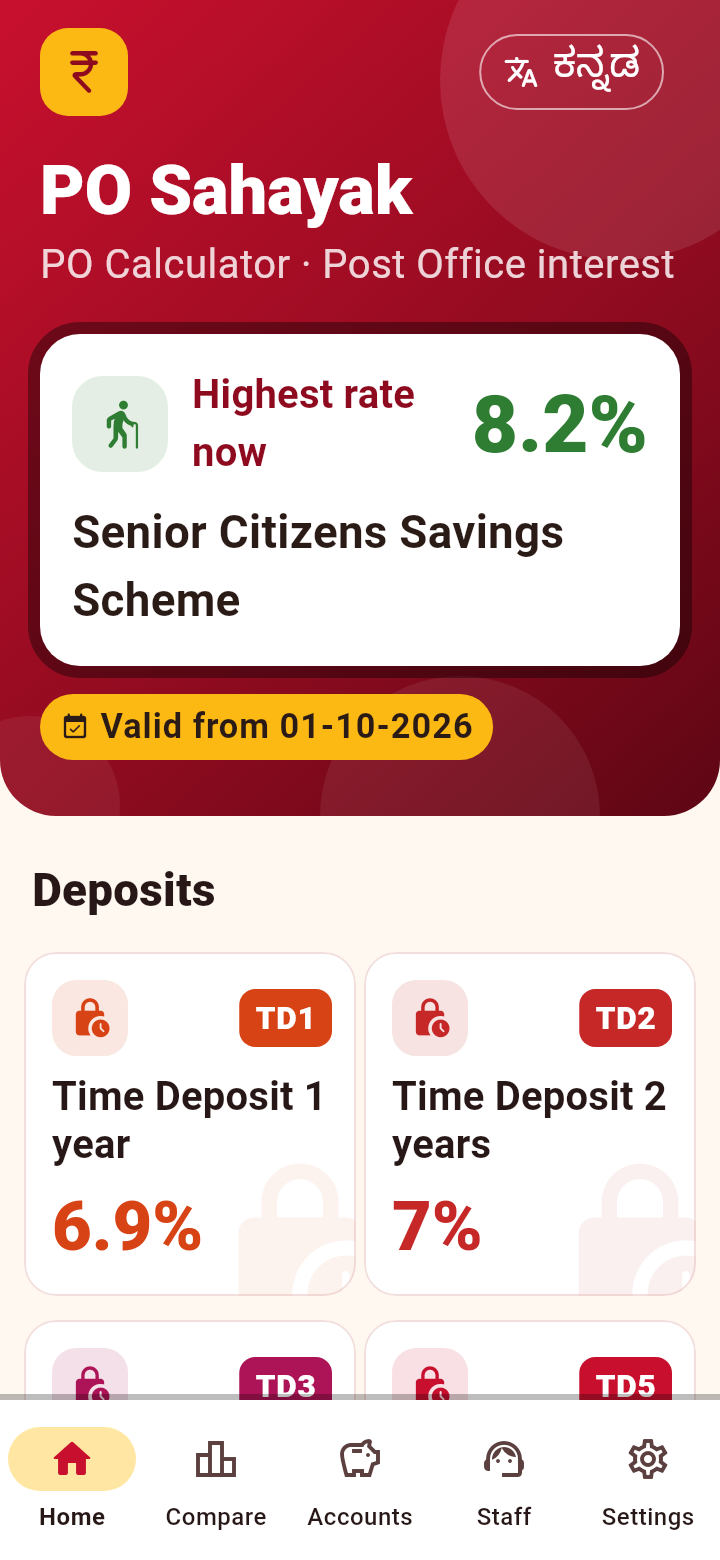
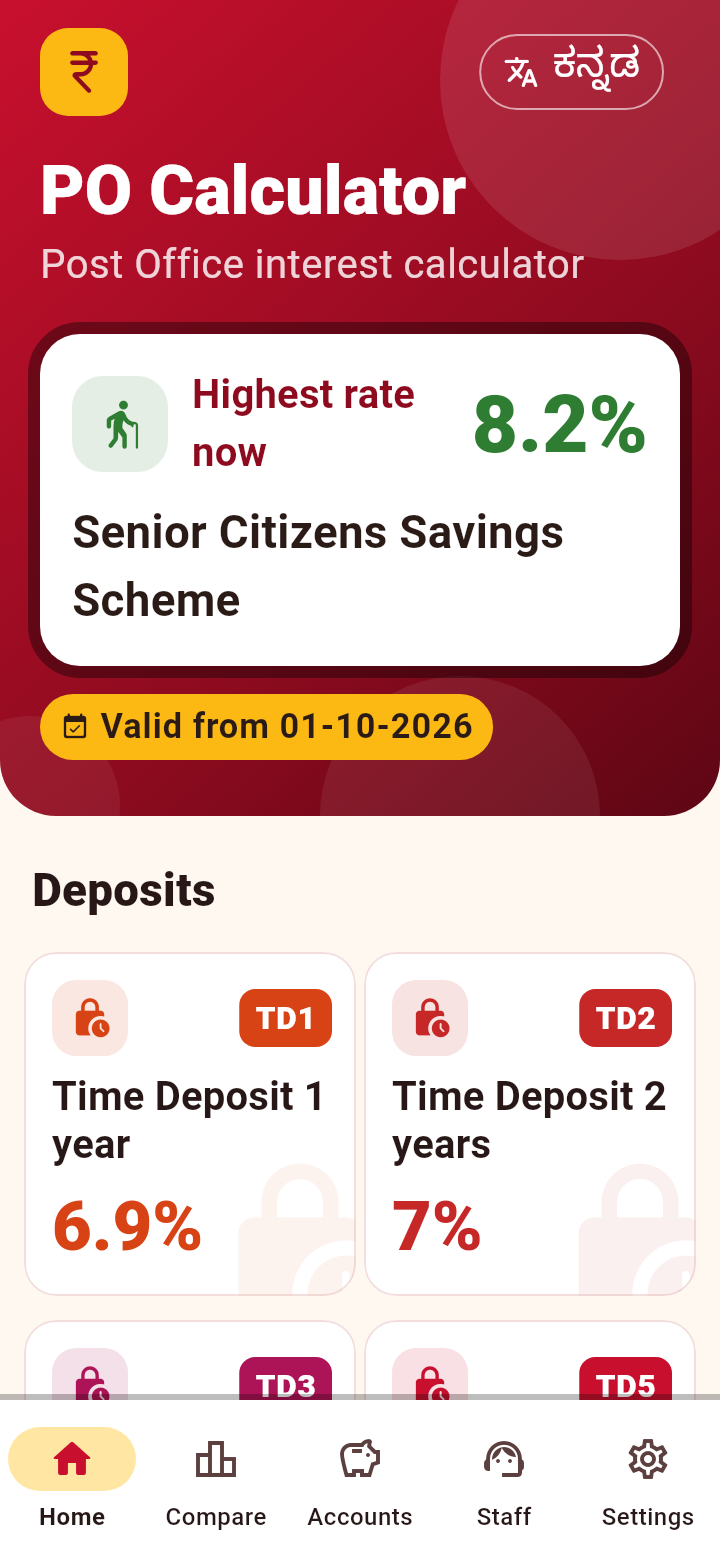
PO Calculator 1.1.9: account opening steps for staff
- Staff tab: new "How to open the account" card with numbered counter
  steps for the chosen scheme and holding type (common Account Opening
  Form, KYC, joint/minor rules, scheme-specific points, nomination,
  payment, CBS and passbook/certificate). MSSC says it is closed.
- SCSS: retirees below 60 get 3 months (not 1) to invest retirement
  benefits, per the 07.11.2023 amendment.
- Refreshed screenshots for the new name.

Claude-Session: https://claude.ai/code/session_012VZRKny5dAwRHgm86XLQ6S

Changed region(s): [[0.0917, 0.0923, 0.9472, 0.1846]]

diff --git a/po_sahayak/lib/app/strings.dart b/po_sahayak/lib/app/strings.dart
@@ -122,8 +122,8 @@ class S {
       'SCSSಗೆ 60+ ವಯಸ್ಸು ಬೇಕು (ನಿವೃತ್ತ ನಾಗರಿಕ ನೌಕರರಿಗೆ 55+, ರಕ್ಷಣಾ ನಿವೃತ್ತರಿಗೆ 50+).',
     ),
     Issue.scssEarlyRetiree => _t(
-      'Below 60: only retirees, within 1 month of getting retirement benefits, up to that amount.',
-      '60ಕ್ಕಿಂತ ಕಡಿಮೆ: ನಿವೃತ್ತಿ ಸೌಲಭ್ಯ ಪಡೆದ 1 ತಿಂಗಳೊಳಗೆ, ಆ ಮೊತ್ತದವರೆಗೆ ಮಾತ್ರ.',
+      'Below 60: only retirees, within 3 months of getting retirement benefits, up to that amount.',
+      '60ಕ್ಕಿಂತ ಕಡಿಮೆ: ನಿವೃತ್ತಿ ಸೌಲಭ್ಯ ಪಡೆದ 3 ತಿಂಗಳೊಳಗೆ, ಆ ಮೊತ್ತದವರೆಗೆ ಮಾತ್ರ.',
     ),
     Issue.ssyGirlAge => _t(
       'SSY can be opened only for a girl below 10 years.',
@@ -361,6 +361,114 @@ class S {
     Doc.jointKyc => _t('KYC of each joint holder', 'ಪ್ರತಿ ಜಂಟಿ ಖಾತೆದಾರರ KYC'),
     Doc.nomination => _t('Nomination form', 'ನಾಮನಿರ್ದೇಶನ ಅರ್ಜಿ'),
   };
+  String get howToOpen => _t('How to open the account', 'ಖಾತೆ ತೆರೆಯುವ ವಿಧಾನ');
+
+  /// Counter steps to open [s] for a [h] holder, in order.
+  List<String> openingSteps(Scheme s, Holding h) {
+    if (s == Scheme.mssc) {
+      return [
+        _t(
+          'Closed for new accounts since 1 April 2025. Use this app only for existing accounts.',
+          '1 ಏಪ್ರಿಲ್ 2025ರಿಂದ ಹೊಸ ಖಾತೆಗಳಿಗೆ ಮುಚ್ಚಲಾಗಿದೆ. ಈಗಿನ ಖಾತೆಗಳಿಗೆ ಮಾತ್ರ ಈ ಆ್ಯಪ್ ಬಳಸಿ.',
+        ),
+      ];
+    }
+    final certificate = s == Scheme.nsc || s == Scheme.kvp;
+    return [
+      _t(
+        'Check eligibility and the deposit limit above.',
+        'ಮೇಲೆ ಅರ್ಹತೆ ಮತ್ತು ಠೇವಣಿ ಮಿತಿ ಪರಿಶೀಲಿಸಿ.',
+      ),
+      _t(
+        'Fill the Account Opening Form (one common form for all schemes) and tick ${s.code}.',
+        'ಖಾತೆ ತೆರೆಯುವ ಅರ್ಜಿ (ಎಲ್ಲಾ ಯೋಜನೆಗಳಿಗೆ ಒಂದೇ ಸಾಮಾನ್ಯ ಅರ್ಜಿ) ತುಂಬಿ, ${s.code} ಆಯ್ಕೆ ಮಾಡಿ.',
+      ),
+      _t(
+        'New customer: fill the KYC form. Take Aadhaar, PAN (or Form 60) and a photo.',
+        'ಹೊಸ ಗ್ರಾಹಕರು: KYC ಅರ್ಜಿ ತುಂಬಿ. ಆಧಾರ್, PAN (ಅಥವಾ ಫಾರ್ಮ್ 60) ಮತ್ತು ಫೋಟೋ ಪಡೆಯಿರಿ.',
+      ),
+      if (h == Holding.joint)
+        _t(
+          'Joint: up to 3 adults; each one gives KYC and signs. For SCSS the joint holder can only be the spouse.',
+          'ಜಂಟಿ: 3 ವಯಸ್ಕರವರೆಗೆ; ಪ್ರತಿಯೊಬ್ಬರೂ KYC ನೀಡಿ ಸಹಿ ಮಾಡಬೇಕು. SCSSನಲ್ಲಿ ಜಂಟಿ ಖಾತೆದಾರರು ಪತಿ/ಪತ್ನಿ ಮಾತ್ರ.',
+        ),
+      if (h == Holding.minor)
+        _t(
+          'Minor: the guardian signs the form and gives their own KYC, with the child\'s birth certificate.',
+          'ಅಪ್ರಾಪ್ತ: ಪೋಷಕರು ಅರ್ಜಿಗೆ ಸಹಿ ಮಾಡಿ ತಮ್ಮ KYC ಮತ್ತು ಮಗುವಿನ ಜನನ ಪ್ರಮಾಣಪತ್ರ ನೀಡಬೇಕು.',
+        ),
+      ...switch (s) {
+        Scheme.sb => [_t('Minimum ₹500 to open.', 'ತೆರೆಯಲು ಕನಿಷ್ಠ ₹500.')],
+        Scheme.rd => [
+          _t(
+            'Take the first instalment now. Opened on days 1–15: pay each month by the 15th; opened on the 16th or later: by the month end.',
+            'ಮೊದಲ ಕಂತು ಈಗಲೇ ಪಡೆಯಿರಿ. 1–15ರಂದು ತೆರೆದರೆ ಪ್ರತಿ ತಿಂಗಳು 15ರೊಳಗೆ; 16 ಅಥವಾ ನಂತರ ತೆರೆದರೆ ತಿಂಗಳ ಕೊನೆಯೊಳಗೆ ಕಟ್ಟಬೇಕು.',
+          ),
+          _t(
+            'A missed month costs a default fee of ₹1 for every ₹100.',
+            'ತಪ್ಪಿದ ತಿಂಗಳಿಗೆ ಪ್ರತಿ ₹100ಕ್ಕೆ ₹1 ದಂಡ.',
+          ),
+        ],
+        Scheme.td1 || Scheme.td2 || Scheme.td3 || Scheme.td5 => [
+          _t(
+            'Choose the term: 1, 2, 3 or 5 years. Only the 5-year TD counts for section 80C.',
+            'ಅವಧಿ ಆಯ್ಕೆ ಮಾಡಿ: 1, 2, 3 ಅಥವಾ 5 ವರ್ಷ. 5 ವರ್ಷದ TD ಮಾತ್ರ 80C ಸೆಕ್ಷನ್ಗೆ ಅರ್ಹ.',
+          ),
+        ],
+        Scheme.mis => [
+          _t(
+            'Link a Post Office savings account; monthly interest is credited there.',
+            'ಅಂಚೆ ಉಳಿತಾಯ ಖಾತೆ ಜೋಡಿಸಿ; ಮಾಸಿಕ ಬಡ್ಡಿ ಅದಕ್ಕೆ ಜಮೆಯಾಗುತ್ತದೆ.',
+          ),
+        ],
+        Scheme.scss => [
+          _t(
+            'Link a Post Office savings account for the quarterly interest.',
+            'ತ್ರೈಮಾಸಿಕ ಬಡ್ಡಿಗಾಗಿ ಅಂಚೆ ಉಳಿತಾಯ ಖಾತೆ ಜೋಡಿಸಿ.',
+          ),
+          _t(
+            'Below 60: take the retirement benefit papers; open within 3 months of getting the benefits.',
+            '60ಕ್ಕಿಂತ ಕಡಿಮೆ: ನಿವೃತ್ತಿ ಸೌಲಭ್ಯದ ದಾಖಲೆ ಪಡೆಯಿರಿ; ಸೌಲಭ್ಯ ಪಡೆದ 3 ತಿಂಗಳೊಳಗೆ ತೆರೆಯಬೇಕು.',
+          ),
+        ],
+        Scheme.ppf => [
+          _t(
+            'Only one PPF account per person. Deposit ₹500 to ₹1.5 lakh in each financial year.',
+            'ಒಬ್ಬರಿಗೆ ಒಂದೇ PPF ಖಾತೆ. ಪ್ರತಿ ಹಣಕಾಸು ವರ್ಷ ₹500ರಿಂದ ₹1.5 ಲಕ್ಷ ಠೇವಣಿ.',
+          ),
+        ],
+        Scheme.ssy => [
+          _t(
+            'Opened by the parent or guardian for a girl below 10, with her birth certificate. At most two girls per family (more only for twins or triplets).',
+            'ಪೋಷಕರು 10 ವರ್ಷದೊಳಗಿನ ಹೆಣ್ಣು ಮಗುವಿಗೆ ಜನನ ಪ್ರಮಾಣಪತ್ರದೊಂದಿಗೆ ತೆರೆಯುತ್ತಾರೆ. ಕುಟುಂಬಕ್ಕೆ ಗರಿಷ್ಠ ಇಬ್ಬರು ಹೆಣ್ಣು ಮಕ್ಕಳು (ಅವಳಿ/ತ್ರಿವಳಿಗೆ ಮಾತ್ರ ಹೆಚ್ಚು).',
+          ),
+          _t(
+            'Deposit ₹250 to ₹1.5 lakh in each financial year.',
+            'ಪ್ರತಿ ಹಣಕಾಸು ವರ್ಷ ₹250ರಿಂದ ₹1.5 ಲಕ್ಷ ಠೇವಣಿ.',
+          ),
+        ],
+        _ => const <String>[],
+      },
+      _t(
+        'Fill the nomination (it can also be added later).',
+        'ನಾಮನಿರ್ದೇಶನ ತುಂಬಿ (ನಂತರವೂ ಸೇರಿಸಬಹುದು).',
+      ),
+      _t(
+        'Take the deposit in cash or by cheque with a pay-in slip. With a cheque, the account opens on the date the cheque is credited.',
+        'ನಗದು ಅಥವಾ ಚೆಕ್ ಮೂಲಕ ಪೇ-ಇನ್ ಸ್ಲಿಪ್ನೊಂದಿಗೆ ಠೇವಣಿ ಪಡೆಯಿರಿ. ಚೆಕ್ ಆದರೆ, ಹಣ ಜಮೆಯಾದ ದಿನಾಂಕದಿಂದ ಖಾತೆ ತೆರೆಯುತ್ತದೆ.',
+      ),
+      certificate
+          ? _t(
+              'Verify the originals and return them, open the account in CBS and issue the certificate.',
+              'ಮೂಲ ದಾಖಲೆ ಪರಿಶೀಲಿಸಿ ಹಿಂತಿರುಗಿಸಿ, CBSನಲ್ಲಿ ಖಾತೆ ತೆರೆದು ಪ್ರಮಾಣಪತ್ರ ನೀಡಿ.',
+            )
+          : _t(
+              'Verify the originals and return them, open the account in CBS and give the passbook.',
+              'ಮೂಲ ದಾಖಲೆ ಪರಿಶೀಲಿಸಿ ಹಿಂತಿರುಗಿಸಿ, CBSನಲ್ಲಿ ಖಾತೆ ತೆರೆದು ಪಾಸ್ಬುಕ್ ನೀಡಿ.',
+            ),
+    ];
+  }
+
   String get documentsNote => _t(
     'General list; check the latest SB order at your office.',
     'ಸಾಮಾನ್ಯ ಪಟ್ಟಿ; ನಿಮ್ಮ ಕಚೇರಿಯಲ್ಲಿ ಇತ್ತೀಚಿನ SB ಆದೇಶ ನೋಡಿ.',

diff --git a/po_sahayak/lib/features/staff/staff_screen.dart b/po_sahayak/lib/features/staff/staff_screen.dart
@@ -260,6 +260,18 @@ class _StaffScreenState extends State<StaffScreen> {
                 Appear(
                   delay: Appear.step(2, ms: 80),
                   child: SectionCard(
+                    icon: Icons.format_list_numbered_rounded,
+                    title: s.howToOpen,
+                    color: c,
+                    child: _Steps(
+                      steps: s.openingSteps(_scheme, _holding),
+                      color: c,
+                    ),
+                  ),
+                ),
+                Appear(
+                  delay: Appear.step(3, ms: 80),
+                  child: SectionCard(
                     icon: Icons.bolt_rounded,
                     title: s.quickCalc,
                     color: c,
@@ -378,4 +390,43 @@ class _DocChecklistState extends State<_DocChecklist> {
       Note(widget.note),
     ],
   );
+}
+
+/// Numbered steps in coloured circles.
+class _Steps extends StatelessWidget {
+  const _Steps({required this.steps, required this.color});
+  final List<String> steps;
+  final Color color;
+
+  @override
+  Widget build(BuildContext context) {
+    final t = Theme.of(context).textTheme;
+    return Column(
+      crossAxisAlignment: CrossAxisAlignment.stretch,
+      children: [
+        for (final (i, step) in steps.indexed)
+          Padding(
+            padding: const EdgeInsets.symmetric(vertical: 6),
+            child: Row(
+              crossAxisAlignment: CrossAxisAlignment.start,
+              children: [
+                CircleAvatar(
+                  radius: 13,
+                  backgroundColor: color,
+                  child: Text(
+                    '${i + 1}',
+                    style: t.labelMedium?.copyWith(
+                      color: Colors.white,
+                      fontWeight: FontWeight.w800,
+                    ),
+                  ),
+                ),
+                const SizedBox(width: 12),
+                Expanded(child: Text(step, style: t.bodyMedium)),
+              ],
+            ),
+          ),
+      ],
+    );
+  }
 }

diff --git a/po_sahayak/test/widget_test.dart b/po_sahayak/test/widget_test.dart
@@ -204,4 +204,23 @@ void main() {
       contains('po-sahayak-keep-latest/po_sahayak.apk'),
     );
   });
+
+  testWidgets('staff tab shows the account opening steps', (tester) async {
+    tester.view.physicalSize = const Size(400 * 3, 2400 * 3);
+    tester.view.devicePixelRatio = 3;
+    addTearDown(tester.view.reset);
+    for (final lang in ['en', 'kn']) {
+      await pumpApp(tester, lang: lang);
+      await tester.tap(find.text(lang == 'en' ? 'Staff' : 'ಸಿಬ್ಬಂದಿ').last);
+      await tester.pumpAndSettle();
+      expect(tester.takeException(), isNull, reason: lang);
+      expect(
+        find.text(
+          lang == 'en' ? 'How to open the account' : 'ಖಾತೆ ತೆರೆಯುವ ವಿಧಾನ',
+        ),
+        findsOneWidget,
+      );
+    }
+    expect(find.textContaining('Only the 5-year TD'), findsNothing);
+  });
 }

diff --git a/po_sahayak/lib/features/settings/settings_screen.dart b/po_sahayak/lib/features/settings/settings_screen.dart
@@ -8,7 +8,7 @@ import '../../app/strings.dart';
 import '../../app/theme.dart';
 import '../../widgets/common.dart';
 
-const String kAppVersion = '1.1.8';
+const String kAppVersion = '1.1.9';
 
 /// Direct link to the newest APK.
 const String kDownloadUrl =
